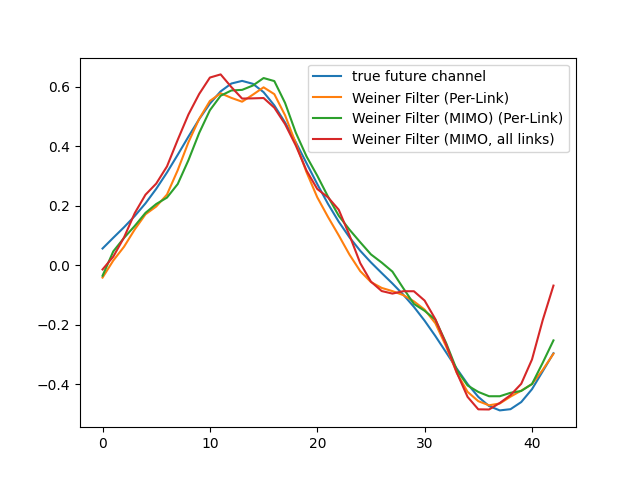
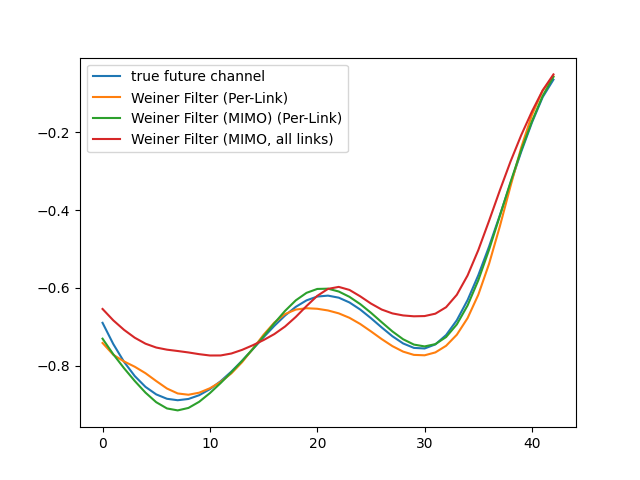
reorganizing codebase after doing an nmse comparison between pca and configured delays

diff --git a/dmimo/dmimo_chanpred.py b/dmimo/dmimo_chanpred.py
@@ -125,7 +125,7 @@ class MU_MIMO(Model):
 
         # The zero forcing and block diagonalization precoder
         self.bd_precoder = BDPrecoder(self.rg, sm, return_effective_channel=True)
-        self.zf_precoder = ZFPrecoder(self.rg, sm, return_effective_channel=True)
+        self.zf_precoder = ZFPrecoder(self.rg, sm, return_effective_channel=True, return_precoder=True)
         self.bd_equalizer = BDEqualizer(self.rg, sm)
 
         # The LS channel estimator will provide channel estimates and error variances
@@ -192,9 +192,9 @@ class MU_MIMO(Model):
                                     batch_size=self.batch_size)
             h_freq_csi_true = rc_predictor_vanilla.rb_mapper(h_freq_csi_true)
             
-            h_freq_csi_vanilla = rc_predictor_vanilla.predict(h_freq_csi_history[-3:,...])
-            pred_nmse_wesn = self.nmse(h_freq_csi_true[0,...], h_freq_csi_vanilla[0,...])
-            print("Vanilla WESN NMSE: ", pred_nmse_wesn)
+            # h_freq_csi_vanilla = rc_predictor_vanilla.predict(h_freq_csi_history[-3:,...])
+            # pred_nmse_wesn = self.nmse(h_freq_csi_true[0,...], h_freq_csi_vanilla[0,...])
+            # print("Vanilla WESN NMSE: ", pred_nmse_wesn)
 
 
 
@@ -470,7 +470,6 @@ class MU_MIMO(Model):
 
             # plt.figure()
             # plt.plot(np.real(h_freq_csi_true[0,0,0,0,0,0,:]), label='true future channel')
-            # plt.plot(np.real(h_freq_csi_vanilla[0,0,0,0,0,0,:]), label='Vanilla')
             # plt.plot(np.real(h_freq_csi_twomode[0,0,0,0,0,0,:]), label='Twomode')
             # plt.plot(np.real(h_freq_csi_graph_twomode[0,0,0,0,0,0,:]), label='Graph Twomode')
             # plt.legend()
@@ -720,7 +719,10 @@ class MU_MIMO(Model):
         # h_freq_csi_outdated = tf.transpose(h_freq_csi_outdated, perm=[0, 2, 1, 3, 4, 5, 6])
 
         # [batch_size, num_rx_ue, num_ue_ant, num_tx, num_txs_ant, num_ofdm_sym, fft_size]
-        h_freq_csi_vanilla = tf.reshape(h_freq_csi_vanilla, (1, self.num_rx_ue, -1, *h_freq_csi_vanilla.shape[3:]))
+        try:
+            h_freq_csi_vanilla = tf.reshape(h_freq_csi_vanilla, (1, self.num_rx_ue, -1, *h_freq_csi_vanilla.shape[3:]))
+        except:
+            hold = 1
         # h_freq_csi_kalman = tf.reshape(h_freq_csi_kalman, (-1, self.num_rx_ue, 1, *h_freq_csi_kalman.shape[3:]))
         h_freq_csi_twomode_all = tf.reshape(h_freq_csi_twomode_all, (1, self.num_rx_ue, -1, *h_freq_csi_twomode_all.shape[3:]))
         h_freq_csi_twomode_per_link = tf.reshape(h_freq_csi_twomode_per_link, (1, self.num_rx_ue, -1, *h_freq_csi_twomode_per_link.shape[3:]))
@@ -773,10 +775,8 @@ class MU_MIMO(Model):
 
                 # apply precoding to OFDM grids
                 if self.cfg.precoding_method == "ZF":
-                    # ue_indices = [[i] for i in range(self.num_rx_ue)]
                     ue_ranks = self.num_streams_per_tx / self.num_rx_ue
-                    # x_precoded, h_eff = self.zf_precoder([x_rg, tf.transpose(h_freq, perm=[0, 2, 1, 3, 4, 5, 6]), ue_indices, ue_ranks])
-                    x_precoded, h_eff = self.zf_precoder([x_rg, h_freq_csi, self.cfg.ue_indices, ue_ranks])
+                    x_precoded, h_eff, g = self.zf_precoder([x_rg, h_freq_csi, self.cfg.ue_indices, ue_ranks])
                 else:
                     ValueError("unsupported precoding method")                
                 
@@ -787,7 +787,15 @@ class MU_MIMO(Model):
                 # LS channel estimation with linear interpolation
                 no = tf.reduce_mean(no)
                 no = tf.cast(no, tf.float32)
-                h_hat, err_var = self.ls_estimator([y, no])
+                if self.cfg.use_perfect_dmrs_estimate:
+                    # Perfect DMRS estimation
+                    h_freq_reshaped = tf.transpose(h_freq[:,0,...], perm=[0,2,4,5,1,3])
+                    h_hat = tf.matmul(h_freq_reshaped, g)
+                    h_hat = tf.transpose(h_hat, perm=[0,1,4,5,2,3])
+                    h_hat = h_hat[:,:,:,tf.newaxis,...]
+                    h_hat = tf.gather(h_hat, self.rg.effective_subcarrier_ind, axis=-1)
+                else:
+                    h_hat, err_var = self.ls_estimator([y, no])
 
                 x_hat = np.zeros(x_rg.shape, dtype=np.complex64)
                 x_hat = x_hat[..., :self.rg.num_effective_subcarriers]
@@ -847,7 +855,10 @@ class MU_MIMO(Model):
         plt.semilogy(SNR_range, uncoded_bers[7, :], label="Weiner Filter (MIMO) Channel")
         plt.grid()
         plt.legend()
-        plt.savefig('bers_tmp')
+        if self.cfg.use_perfect_dmrs_estimate:
+            plt.savefig('bers_tmp_perfect_dmrs_ce')
+        else:
+            plt.savefig('bers_tmp')
 
         return [pred_nmse_outdated, pred_nmse_wesn, pred_nmse_wgesn_per_antenna_pair, pred_nmse_kalman], uncoded_bers, x_hat
     

diff --git a/dmimo/mimo/zf_precoder.py b/dmimo/mimo/zf_precoder.py
@@ -15,6 +15,7 @@ class ZFPrecoder(Layer):
                  resource_grid,
                  stream_management,
                  return_effective_channel=False,
+                 return_precoder=False,
                  dtype=tf.complex64,
                  **kwargs):
         super().__init__(trainable=False, dtype=dtype, **kwargs)
@@ -23,6 +24,7 @@ class ZFPrecoder(Layer):
         self._resource_grid = resource_grid
         self._stream_management = stream_management
         self._return_effective_channel = return_effective_channel
+        self._return_precoder = return_precoder
         self._remove_nulled_scs = RemoveNulledSubcarriers(self._resource_grid)
 
     def _compute_effective_channel(self, h, g):
@@ -145,6 +147,12 @@ class ZFPrecoder(Layer):
 
         if self._return_effective_channel:
             h_eff = self._compute_effective_channel(h, g)
-            return x_precoded, h_eff
+            if self._return_precoder:
+                return x_precoded, h_eff, g
+            else:
+                return x_precoded, h_eff
         else:
-            return x_precoded
+            if self._return_precoder:
+                return x_precoded, g
+            else:
+                return x_precoded

diff --git a/dmimo/channel/rc_pred_freq_mimo.py b/dmimo/channel/rc_pred_freq_mimo.py
@@ -7,7 +7,7 @@ from dmimo.channel import lmmse_channel_estimation
 
 class standard_rc_pred_freq_mimo:
 
-    def __init__(self, architecture, rc_config, num_rx_ant=8, num_neurons=None):
+    def __init__(self, architecture, rc_config, num_rx_ant=8, num_neurons=None, rb_granularity=True):
         
         ns3_config = Ns3Config()
         self.rc_config = rc_config
@@ -18,7 +18,7 @@ class standard_rc_pred_freq_mimo:
         self.subcarriers_per_RB = 12
         self.num_rbs = int(np.ceil(self.nfft_full / self.subcarriers_per_RB))
 
-        self.rb_granularity = True
+        self.rb_granularity = rb_granularity
         if self.rb_granularity:
             self.num_freq_re = self.num_rbs
         else:

diff --git a/sims/sim_dmimo_chanpred.py b/sims/sim_dmimo_chanpred.py
@@ -71,7 +71,7 @@ if __name__ == "__main__":
     cfg.num_tx_ue_sel = 6
     if arguments == []:
         mobility = 'high_mobility'
-        drop_idx = '3'
+        drop_idx = '2'
         rx_ues_arr = [3]
         vector_inputs = 'tx_ants' # tx_ants, rx_ants, none, all
         csi_delays = [4, 5, 6, 7, 8]
@@ -114,6 +114,7 @@ if __name__ == "__main__":
     cfg.rank_adapt = True
     cfg.link_adapt = True
     cfg.csi_prediction = True
+    cfg.use_perfect_dmrs_estimate = False
     cfg.predictor = 'gesn'
 
     for ue_arr_idx in range(np.size(rx_ues_arr)):
